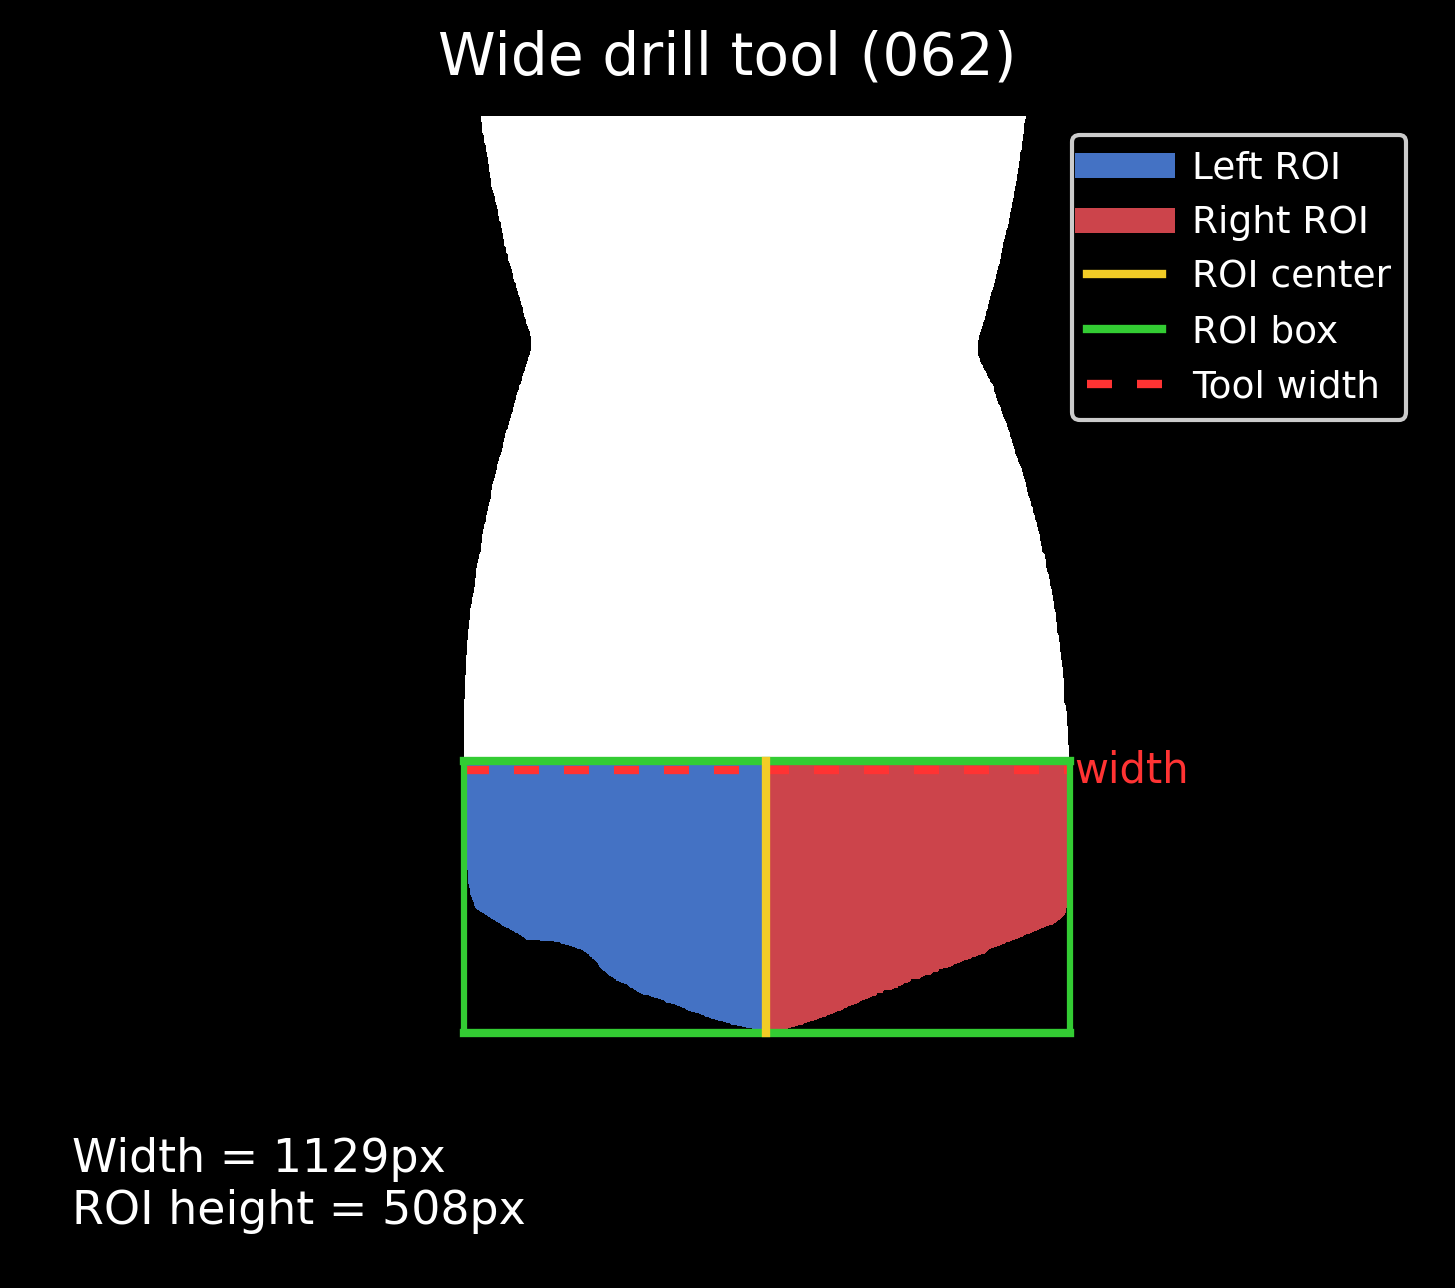
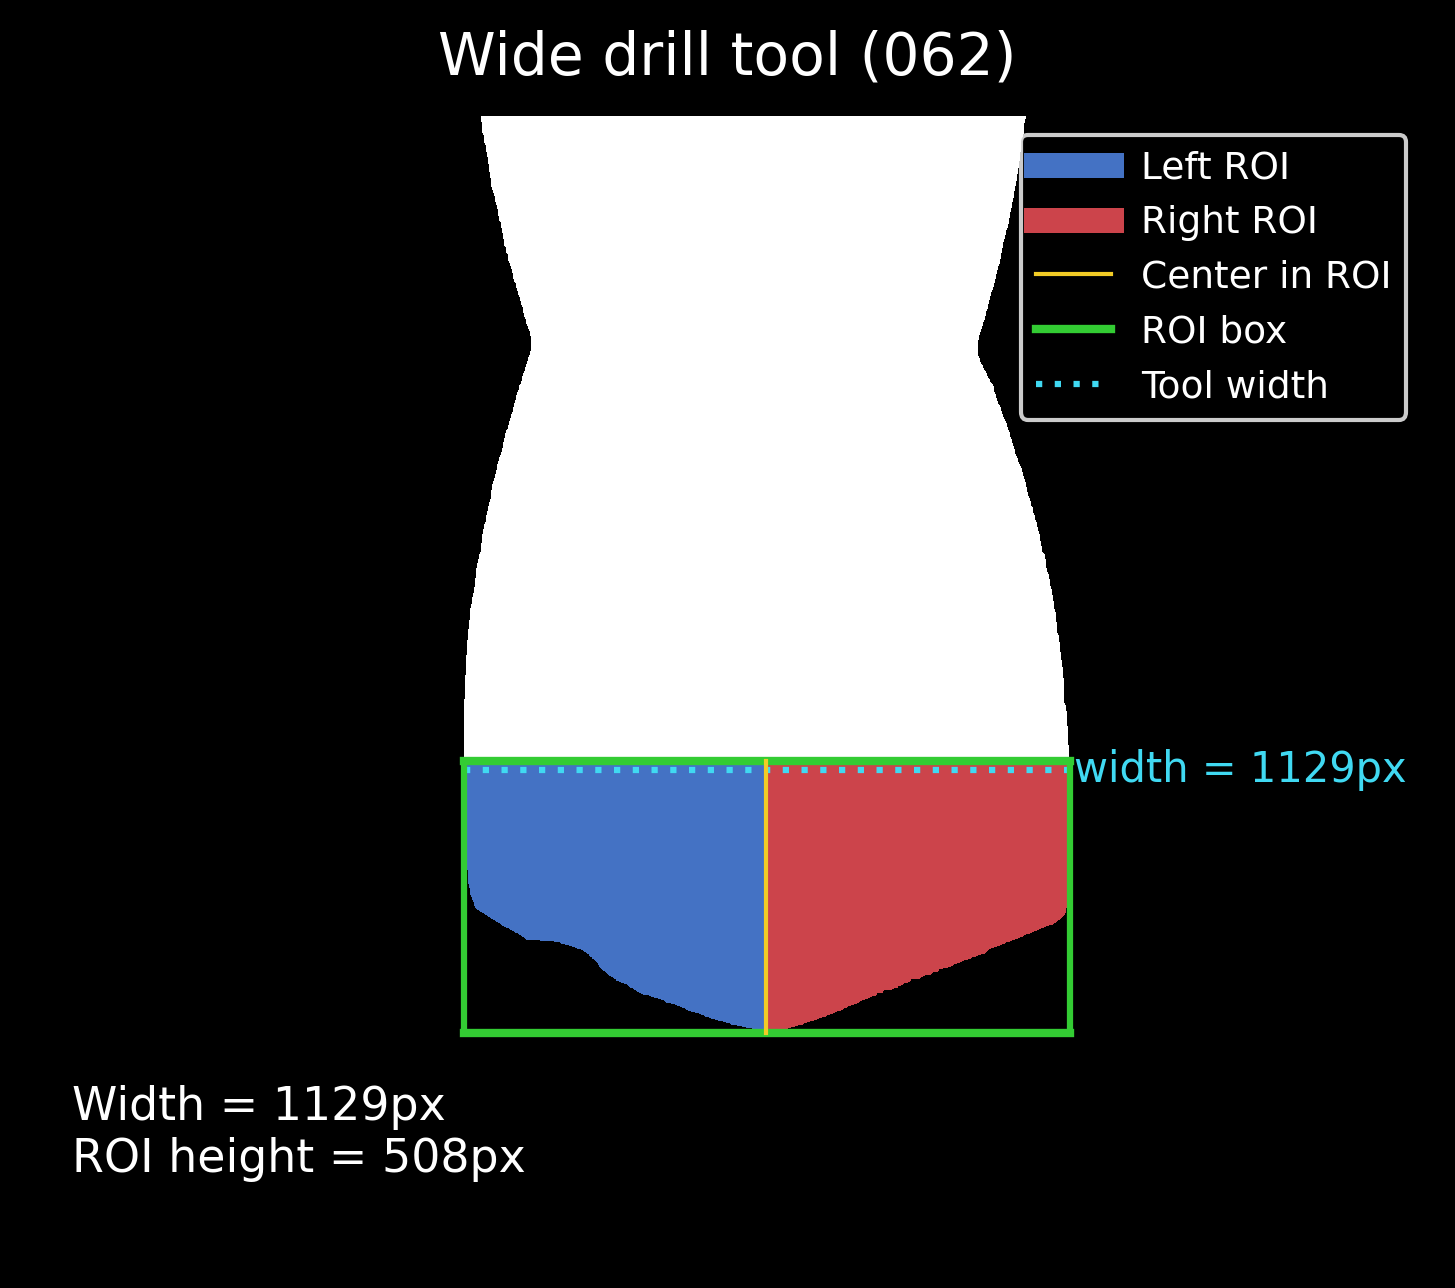
good figures

diff --git a/two_edge_case/paper_figures/fig_roi_height_vs_width.py b/two_edge_case/paper_figures/fig_roi_height_vs_width.py
@@ -28,8 +28,8 @@ MASKS_DIR = os.path.join(BASE_DIR, "masks")
 OUTPUT_DIR = "."
 
 TOOLS = [
-    {"id": "tool062", "label": "Wide drill tool (062)", "target_roi": 200, "frame_degree": 60},
-    {"id": "tool068", "label": "Narrow drill tool (068)", "target_roi": 200, "frame_degree": 2},
+    {"id": "tool062", "label": "Wide drill tool (062)", "frame_degree": 60},
+    {"id": "tool068", "label": "Narrow drill tool (068)", "frame_degree": 2},
 ]
 
 # Dynamic ROI coefficient: roi_height = tool_width * ROI_WIDTH_COEFF
@@ -44,7 +44,7 @@ WHITE_RATIO_OUTLIER_THRESHOLD = 0.8
 # Styling
 COLOR_TOOL = (1.0, 1.0, 1.0)  # white mask
 COLOR_ROI = (0.2, 0.8, 0.2)   # green
-COLOR_WIDTH = (1.0, 0.2, 0.2) # red dashed width line
+COLOR_WIDTH = (0.25, 0.85, 0.95) # cyan dashed width line
 COLOR_LEFT = (68/255, 114/255, 196/255)  # blue
 COLOR_RIGHT = (204/255, 68/255, 75/255)  # red
 COLOR_CENTER = (0.95, 0.80, 0.15)        # gold
@@ -160,7 +160,6 @@ def find_widest_row(mask):
 def create_width_roi_figure(tool_cfg):
     tool_id = tool_cfg["id"]
     label = tool_cfg["label"]
-    target_roi = tool_cfg["target_roi"]
 
     mask_folder = get_mask_folder(tool_id)
     if not mask_folder:
@@ -183,33 +182,42 @@ def create_width_roi_figure(tool_cfg):
     mask = get_largest_contour_mask(raw)
     height, width = mask.shape
 
-    # Width from full tool
+    # Width from full tool (for annotation and dashed line)
     tool_width, min_x, max_x = compute_tool_width(mask)
     widest_row, widest_min, widest_max, widest_w = find_widest_row(mask)
+
+    # Dynamic ROI height from tool width
     roi_height = int(tool_width * ROI_WIDTH_COEFF)
 
     # ROI bottom from all frames (median of bottom-most white pixel)
-    roi_bottom = find_global_roi_bottom(mask_files, target_roi)
+    roi_bottom = find_global_roi_bottom(mask_files, roi_height)
     if roi_bottom == 0:
         roi_bottom = int(np.max(np.where(mask == 255)[0])) if np.any(mask == 255) else height - 1
     roi_top = max(0, roi_bottom - roi_height)
+
+    # Find center from white pixels WITHIN the ROI (same as analysis)
+    roi_mask = mask[roi_top:roi_bottom + 1, :]
+    roi_white = np.where(roi_mask == 255)
+    if len(roi_white[1]) == 0:
+        print(f"No white pixels in ROI for {tool_id}")
+        return
+    left_col = int(np.min(roi_white[1]))
+    right_col = int(np.max(roi_white[1]))
+    center_x = (left_col + right_col) // 2
 
     # Build RGB image (white mask on black background)
     rgb = np.zeros((height, width, 3), dtype=np.float32)
     rgb[mask == 255] = COLOR_TOOL
 
-    # Color left/right within ROI based on ROI center
-    if tool_width > 0:
-        center_x = (min_x + max_x) // 2
-        roi_mask = mask[roi_top:roi_bottom + 1, :]
-        left_mask = np.zeros_like(roi_mask)
-        right_mask = np.zeros_like(roi_mask)
-        left_mask[:, :center_x] = roi_mask[:, :center_x]
-        right_mask[:, center_x + 1:] = roi_mask[:, center_x + 1:]
-        rgb_roi = rgb[roi_top:roi_bottom + 1, :]
-        rgb_roi[left_mask == 255] = COLOR_LEFT
-        rgb_roi[right_mask == 255] = COLOR_RIGHT
-        rgb[roi_top:roi_bottom + 1, :] = rgb_roi
+    # Color left/right within ROI based on ROI white-pixel center
+    left_mask = np.zeros_like(roi_mask)
+    right_mask = np.zeros_like(roi_mask)
+    left_mask[:, left_col:center_x] = roi_mask[:, left_col:center_x]
+    right_mask[:, center_x + 1:right_col + 1] = roi_mask[:, center_x + 1:right_col + 1]
+    rgb_roi = rgb[roi_top:roi_bottom + 1, :]
+    rgb_roi[left_mask == 255] = COLOR_LEFT
+    rgb_roi[right_mask == 255] = COLOR_RIGHT
+    rgb[roi_top:roi_bottom + 1, :] = rgb_roi
 
     # Plot
     fig, ax = plt.subplots(figsize=(6, 9))
@@ -218,30 +226,30 @@ def create_width_roi_figure(tool_cfg):
     # Draw dashed widest-width line
     if widest_row is not None:
         ax.plot([widest_min, widest_max], [widest_row, widest_row],
-                color=COLOR_WIDTH, linewidth=2, linestyle=(0, (3, 3)))
+                color=COLOR_WIDTH, linewidth=1.5, linestyle=(0, (1, 2)))
         ax.text(
             widest_max + 8, widest_row,
-            "width",
+            f"width = {widest_w}px",
             color=COLOR_WIDTH, fontsize=10, va="center", ha="left",
         )
 
-    # Draw ROI top/bottom lines
-    ax.plot([min_x, max_x], [roi_top, roi_top], color=COLOR_ROI, linewidth=2)
-    ax.plot([min_x, max_x], [roi_bottom, roi_bottom], color=COLOR_ROI, linewidth=2)
+    # Draw ROI top/bottom lines (span from ROI white pixel extents)
+    ax.plot([left_col, right_col], [roi_top, roi_top], color=COLOR_ROI, linewidth=2)
+    ax.plot([left_col, right_col], [roi_bottom, roi_bottom], color=COLOR_ROI, linewidth=2)
 
     # Draw vertical ROI sides
-    ax.plot([min_x, min_x], [roi_top, roi_bottom], color=COLOR_ROI, linewidth=1.5)
-    ax.plot([max_x, max_x], [roi_top, roi_bottom], color=COLOR_ROI, linewidth=1.5)
+    ax.plot([left_col, left_col], [roi_top, roi_bottom], color=COLOR_ROI, linewidth=1.5)
+    ax.plot([right_col, right_col], [roi_top, roi_bottom], color=COLOR_ROI, linewidth=1.5)
 
-    # Draw ROI center line (gold)
-    if tool_width > 0:
-        center_x = (min_x + max_x) // 2
-        ax.plot([center_x, center_x], [roi_top, roi_bottom], color=COLOR_CENTER, linewidth=2)
+    # Draw center line (gold, solid) — center of white pixels within the ROI
+    ax.plot([center_x, center_x], [roi_top, roi_bottom], color=COLOR_CENTER,
+            linewidth=1)
 
     # Annotations
     text = (
         f"Width = {tool_width}px\n"
-        f"ROI height = {roi_height}px"
+        f"ROI height = {roi_height}px\n"
+        # f"Coeff = {ROI_WIDTH_COEFF}"
     )
     ax.text(0.03, 0.03, text, transform=ax.transAxes,
             fontsize=11, color="white",
@@ -253,10 +261,11 @@ def create_width_roi_figure(tool_cfg):
         handles=[
             plt.Line2D([0], [0], color=COLOR_LEFT, linewidth=6, label="Left ROI"),
             plt.Line2D([0], [0], color=COLOR_RIGHT, linewidth=6, label="Right ROI"),
-            plt.Line2D([0], [0], color=COLOR_CENTER, linewidth=2, label="ROI center"),
+            plt.Line2D([0], [0], color=COLOR_CENTER, linewidth=1,
+                       label="Center in ROI"),
             plt.Line2D([0], [0], color=COLOR_ROI, linewidth=2, label="ROI box"),
-            plt.Line2D([0], [0], color=COLOR_WIDTH, linewidth=2,
-                       linestyle=(0, (3, 3)), label="Tool width"),
+            plt.Line2D([0], [0], color=COLOR_WIDTH, linewidth=1.5,
+                       linestyle=(0, (1, 2)), label="Tool width"),
         ],
         loc="upper right",
         frameon=True,

diff --git a/two_edge_case/paper_figures/fig_folding_method.py b/two_edge_case/paper_figures/fig_folding_method.py
@@ -28,6 +28,12 @@ TOOL_ID = "tool002"
 TOOL_LABEL = "New Tool (tool002)"
 TARGET_DEGREES = [0, 30, 60, 90]
 
+# Dynamic ROI coefficient: roi_height = tool_width * ROI_WIDTH_COEFF
+ROI_WIDTH_COEFF = 0.45
+
+# Outlier filter (same as analysis)
+WHITE_RATIO_OUTLIER_THRESHOLD = 0.8
+
 # Colors (RGB)
 COL_LEFT  = np.array([68, 114, 196]) / 255.0   # Steel Blue
 COL_RIGHT = np.array([204, 68, 75]) / 255.0    # Muted Red
@@ -67,28 +73,63 @@ def get_largest_contour_mask(mask):
     cv2.drawContours(out, [largest], -1, 255, -1)
     return out
 
-def create_split_image(mask):
+def find_global_roi_bottom(mask_files, roi_height):
+    """Find the median bottom-most white pixel across all frames (same as analysis)."""
+    bottoms = []
+    for fp in mask_files:
+        m = cv2.imread(fp, cv2.IMREAD_GRAYSCALE)
+        if m is None:
+            continue
+        m = get_largest_contour_mask(m)
+        h = m.shape[0]
+        check = m[max(0, h - roi_height * 2):, :]
+        ratio = np.sum(check == 255) / max(check.size, 1)
+        if ratio > WHITE_RATIO_OUTLIER_THRESHOLD:
+            continue
+        wp = np.where(m == 255)
+        if len(wp[0]) > 0:
+            bottoms.append(np.max(wp[0]))
+    return int(np.median(bottoms)) if bottoms else 0
+
+def create_split_image(mask, global_roi_bottom, roi_height):
+    """Color the tool halves based on center found from white pixels within the ROI."""
     mask = get_largest_contour_mask(mask)
     y_idxs, x_idxs = np.where(mask == 255)
     if len(x_idxs) == 0: return None
     
-    min_x, max_x = np.min(x_idxs), np.max(x_idxs)
-    center_x = (min_x + max_x) // 2
-    
     h, w = mask.shape
+    
+    # Define ROI (same logic as analysis)
+    roi_top = max(0, global_roi_bottom - roi_height)
+    roi_bottom = global_roi_bottom + 1
+    
+    # Find center from white pixels WITHIN the ROI
+    roi_mask = mask[roi_top:roi_bottom, :]
+    roi_white = np.where(roi_mask == 255)
+    if len(roi_white[1]) == 0:
+        return None
+    
+    left_col = np.min(roi_white[1])
+    right_col = np.max(roi_white[1])
+    center_x = (left_col + right_col) // 2
+    
+    # Full extent for cropping
+    min_x = np.min(x_idxs)
+    max_x = np.max(x_idxs)
+    
     img = np.zeros((h, w, 3), dtype=np.float32) # Black background
     
     # Color Left Blue
     left_mask = np.zeros_like(mask)
-    left_mask[:, min_x:center_x] = mask[:, min_x:center_x]
+    left_mask[:, left_col:center_x] = mask[:, left_col:center_x]
     img[left_mask == 255] = COL_LEFT
     
     # Color Right Red
     right_mask = np.zeros_like(mask)
-    right_mask[:, center_x+1:max_x+1] = mask[:, center_x+1:max_x+1]
+    right_mask[:, center_x+1:right_col+1] = mask[:, center_x+1:right_col+1]
     img[right_mask == 255] = COL_RIGHT
     
-    # Yellow Center Line
+    # Yellow Center Line (solid)
     img[:, center_x] = [1.0, 1.0, 0.0]
     
     # Crop
@@ -109,6 +150,27 @@ def main():
         print(f"Folder not found for {TOOL_ID}")
         return
 
+    # Compute tool width from first valid frame to derive dynamic ROI height
+    sample_files = sorted(glob.glob(os.path.join(folder, "*.tif*")))
+    tool_width = 0
+    for sf in sample_files:
+        sm = cv2.imread(sf, cv2.IMREAD_GRAYSCALE)
+        if sm is None:
+            continue
+        sm = get_largest_contour_mask(sm)
+        wp = np.where(sm == 255)
+        if len(wp[1]) > 0:
+            tool_width = int(np.max(wp[1])) - int(np.min(wp[1]))
+            break
+    roi_height = int(tool_width * ROI_WIDTH_COEFF) if tool_width > 0 else 200
+
+    # Compute global ROI bottom from all mask files (same as analysis)
+    all_mask_files = sorted(glob.glob(os.path.join(folder, "*.tif*")))
+    global_roi_bottom = find_global_roi_bottom(all_mask_files, roi_height)
+    if global_roi_bottom == 0:
+        print(f"Could not determine ROI bottom for {TOOL_ID}")
+        return
+
     # Create Figure: 1 Row, 4 Columns
     fig, axes = plt.subplots(1, 4, figsize=(12, 4), constrained_layout=False)
     fig.subplots_adjust(left=0.02, right=0.98, top=0.85, bottom=0.18, wspace=0.02)
@@ -119,7 +181,7 @@ def main():
         
         if fpath:
             raw = cv2.imread(fpath, cv2.IMREAD_GRAYSCALE)
-            viz = create_split_image(raw)
+            viz = create_split_image(raw, global_roi_bottom, roi_height)
             if viz is not None:
                 ax.imshow(viz)
                 ax.set_title(f"{target}°", fontsize=12, fontweight='bold')
@@ -131,7 +193,7 @@ def main():
     legend_elements = [
         Patch(facecolor=COL_LEFT, label='Left Hemisphere'),
         Patch(facecolor=COL_RIGHT, label='Right Hemisphere'),
-        Patch(facecolor='yellow', label='Central Axis'),
+        Patch(facecolor='yellow', label='Center in ROI'),
     ]
     fig.legend(handles=legend_elements, loc='lower center', ncol=3,
                frameon=True, fontsize=10, bbox_to_anchor=(0.5, 0.02))
